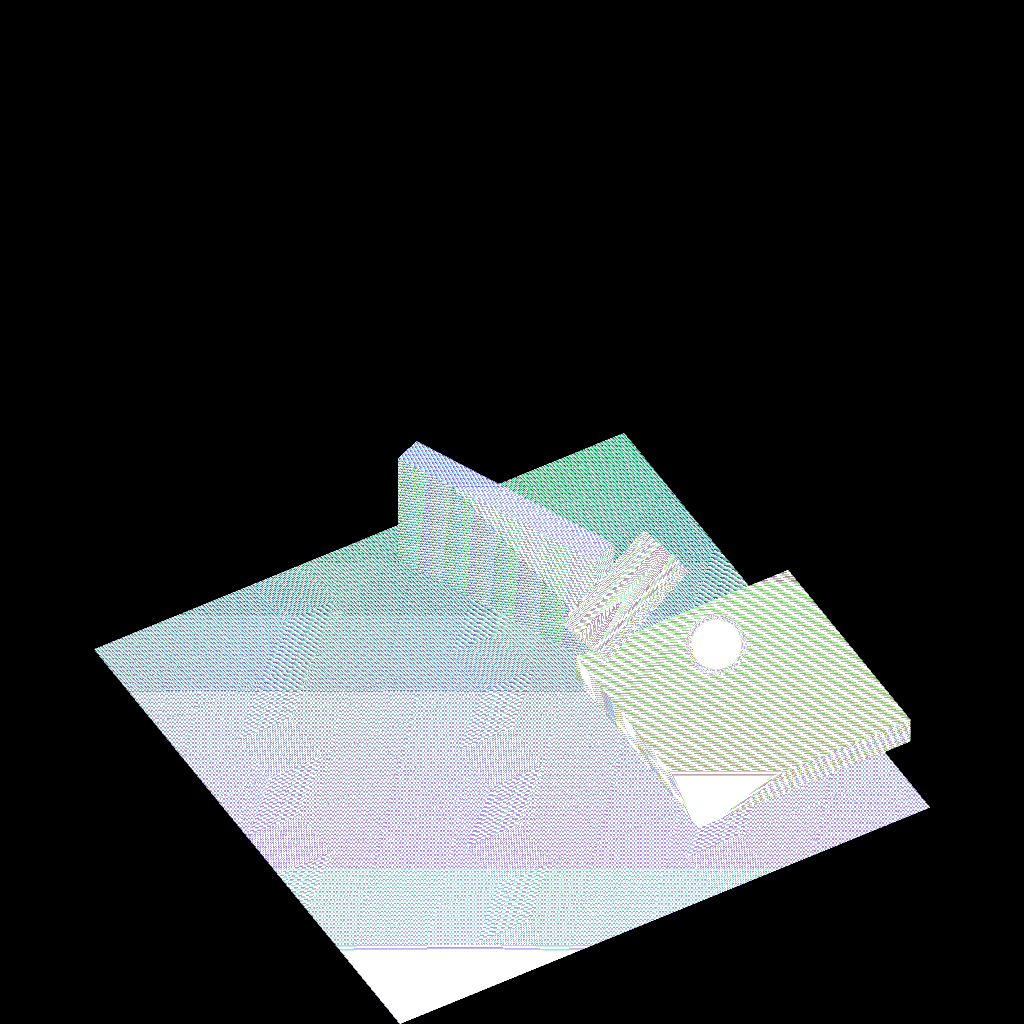
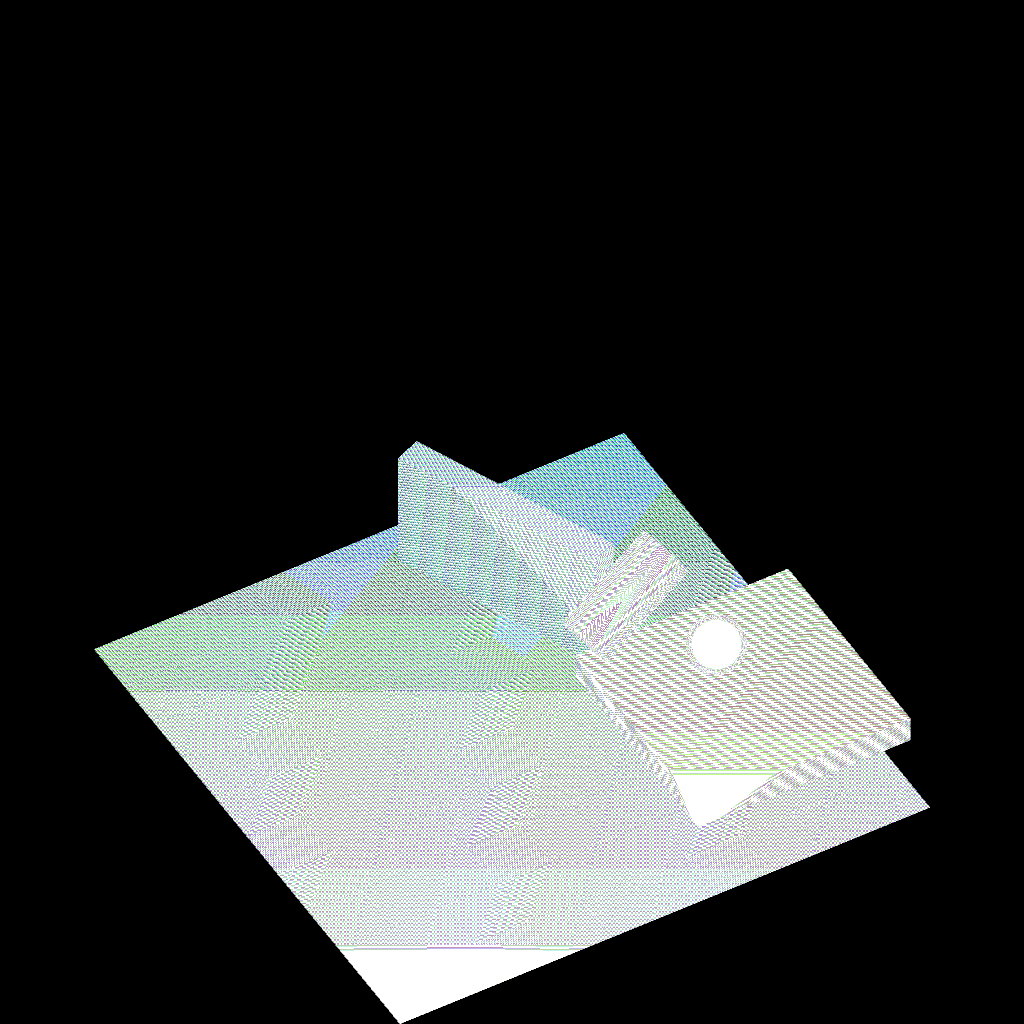
存在爆空间问题，不知道原因

Changed region(s): [[0.5625, 0.5625, 0.9062, 0.8125]]

diff --git a/ShadowCSharp/BuildTreeManager.cs b/ShadowCSharp/BuildTreeManager.cs
@@ -44,12 +44,13 @@ namespace Assets.ShadowCSharp
         private Stack<Data> dataStack = new Stack<Data>();
         private int hashCnt;
 
-        public Octree BuildTree(int depth)
+        public void BuildTree(int depth,out Octree allroot)
         {
             stk.Clear();
             hashCnt = 0;
             Data last = null;
-            Data tree = new Data(new Octree(), depth, true, 1, 0, 0);
+            allroot = new Octree();
+            Data tree = new Data(allroot, depth, true, 1, 0, 0);
             dataStack.Push(tree);
             while (dataStack.Count > 0)
             {
@@ -78,6 +79,8 @@ namespace Assets.ShadowCSharp
                         break;
                     case 1:
                         //开始循环
+                        if(top.childId >= 8 ) 
+                            Debug.Log("Error!!!!!!!!");
                         stk.Add(top.childId);
                         top.step = 2;
                         dataStack.Push(top);
@@ -90,23 +93,13 @@ namespace Assets.ShadowCSharp
                         var i = top.childId;
                         KeyValuePair<int, int> subVal = new KeyValuePair<int, int>(last.sz, last.hashval);
                         top.root.SubTree.Add(subTree);
-                        bool isCull = false;
-                        var subPos = GetWorldPositionByStack();
-                        if (subTree.InShadow)
-                        {
-                            var length = GetSizeByDepth(stk.Count);
-                            var colliders = Physics.OverlapBox(subPos, Vector3.one * 0.49f * length);
-                            foreach (var col in colliders)
-                            {
-                                var closestPoint = col.ClosestPoint(subPos);
-                                if (closestPoint != subPos)
-                                {
-                                    isCull = true;
-                                    Debug.Log("cull " + subPos);
-                                    break;
-                                }
-                            }
-                        }
+                        //bool isCull = false;
+                        //var subPos = GetWorldPositionByStack();
+                        //if (subTree.InShadow)
+                        //{
+                        //    var length = GetSizeByDepth(stk.Count);
+                        //    isCull = Physics.CheckBox(subPos, Vector3.one * 0.5f * length);
+                        //}
 
                         var hashval = top.hashval;
                         top.hashval = (hashval + _hashCode[top.childId] * _primeList[subVal.Key] % mod * subVal.Value % mod) % mod;
@@ -117,12 +110,11 @@ namespace Assets.ShadowCSharp
                             if (top.root.SubTree[i].SubTree != null && top.root.SubTree[i].SubTree.Count > 0) top.flag = false;
                             if (i == 0)
                                 top.root.InShadow = top.root.SubTree[i].InShadow;
-                            else if (isCull) continue;
+                            //else if (isCull) continue;
                             else if (top.root.InShadow != top.root.SubTree[i].InShadow)
                                 top.flag = false;
                         }
 
-                        if (top.root.InShadow) isCull = false;
                         if (top.childId >= 7)
                         {
                             top.step = 3;
@@ -135,7 +127,7 @@ namespace Assets.ShadowCSharp
                         dataStack.Push(top);
                         break;
                     case 3:
-                        if (top.flag && !top.root.InShadow)
+                        if (top.flag)
                         {
                             top.root.SubTree.Clear();
 
@@ -161,8 +153,6 @@ namespace Assets.ShadowCSharp
                         break;
                 }
             }
-            GC.Collect();
-            return last.root;
         }
     }
 }

diff --git a/Utils/ReplaceShaderByFileDir.cs b/Utils/ReplaceShaderByFileDir.cs
@@ -1,4 +1,5 @@
-using UnityEditor;
+/*
+using UnityEditor;
 using UnityEngine;
 using UnityEngine.SceneManagement;
 using System.Collections.Generic;
@@ -68,7 +69,7 @@ public class ReplaceShaderByFileDir : EditorWindow
     {
         replaceGoList.Clear();
 
-        /*Dictionary<GameObject, Material[]> matDict =*/ GetAllScenceMaterial();
+        /*Dictionary<GameObject, Material[]> matDict =#1# GetAllScenceMaterial();
 
         /*List<Material> replaceMatList = new List<Material>();
         foreach (var item in matDict)
@@ -98,12 +99,12 @@ public class ReplaceShaderByFileDir : EditorWindow
             UpdateProgress(i, replaceMatCount, "替换中...");
             replaceMatList[i] = material;
             EditorUtility.SetDirty(replaceMatList[i]);
-        }*/
+        }#1#
 
         AssetDatabase.Refresh();
         AssetDatabase.SaveAssets();
         /*tipMsg = "替换成功！替换了" + replaceMatCount + "个Material," + replaceGoList.Count + "个GameObject";
-        tipMsgType = MessageType.Info;*/
+        tipMsgType = MessageType.Info;#1#
 
         EditorUtility.ClearProgressBar();
     }
@@ -171,3 +172,4 @@ public class ReplaceShaderByFileDir : EditorWindow
 
 
 }
+*/

diff --git a/ShadowCSharp/OctreeManager.cs b/ShadowCSharp/OctreeManager.cs
@@ -74,7 +74,7 @@ namespace Assets.ShadowCSharp
             if (_root == null)
             {
                 //Build(_depth, out _root);
-                _root = BuildTree(_depth);
+                BuildTree(_depth,out _root);
             }
             Debug.Log("Dic size = " + _dic.Count);
             Debug.Log("Reuse num = " + hashCnt);
@@ -204,7 +204,7 @@ namespace Assets.ShadowCSharp
 
         public Texture2D SerializeOctree(out int size,out List<Color32> list)
         {
-            Texture2D tex = new Texture2D(1024, 1024);
+            Texture2D tex = new Texture2D(4096, 4096);
             list = new List<Color32>();
             int lastIp = 0;
             SerializationDfs(_root, tex,ref lastIp,0);
